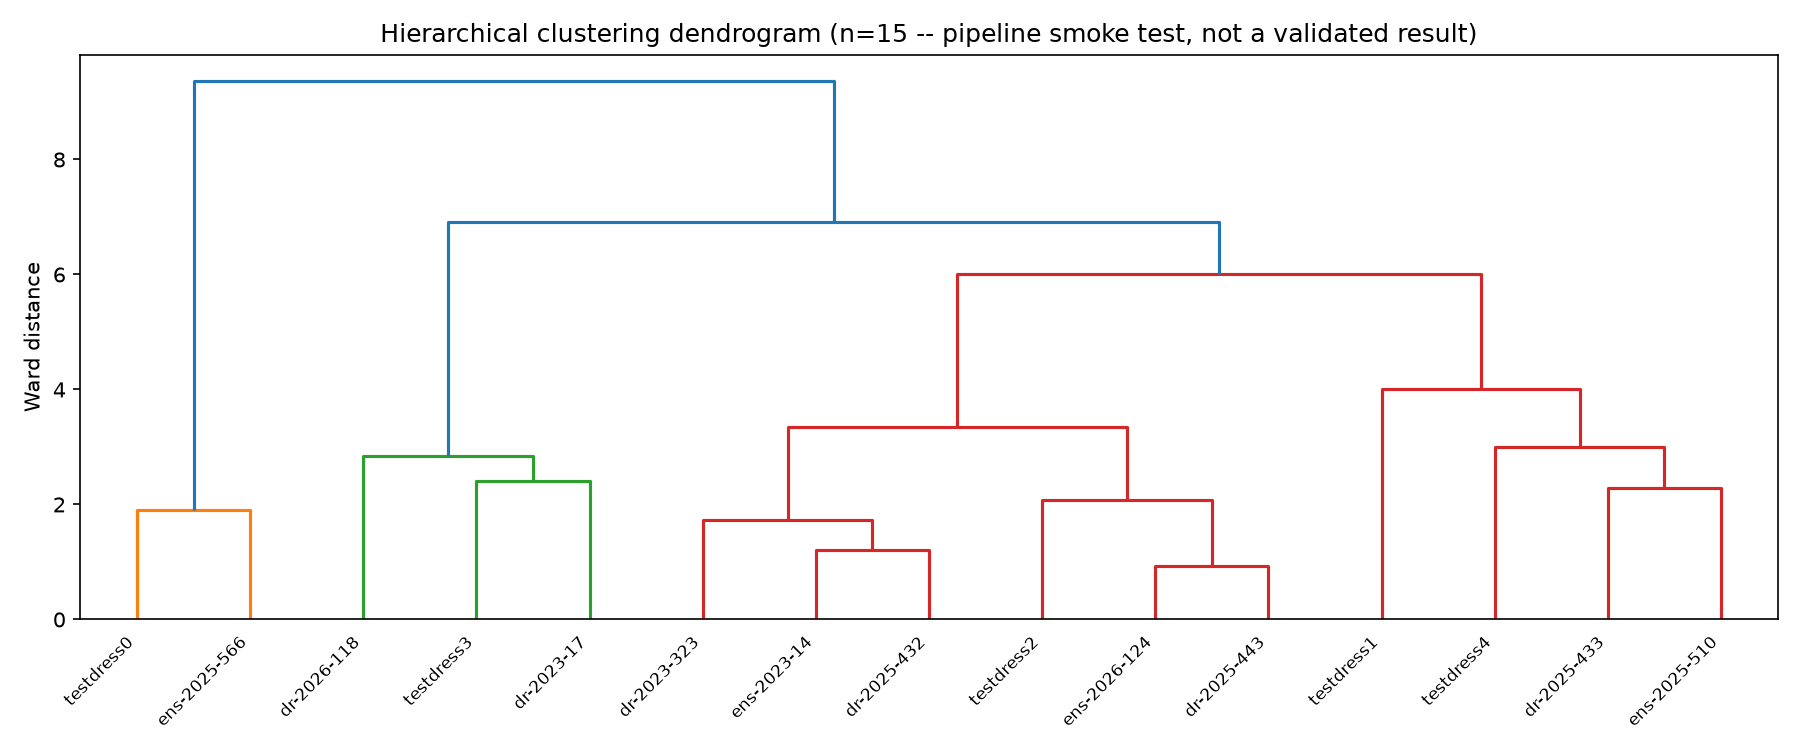
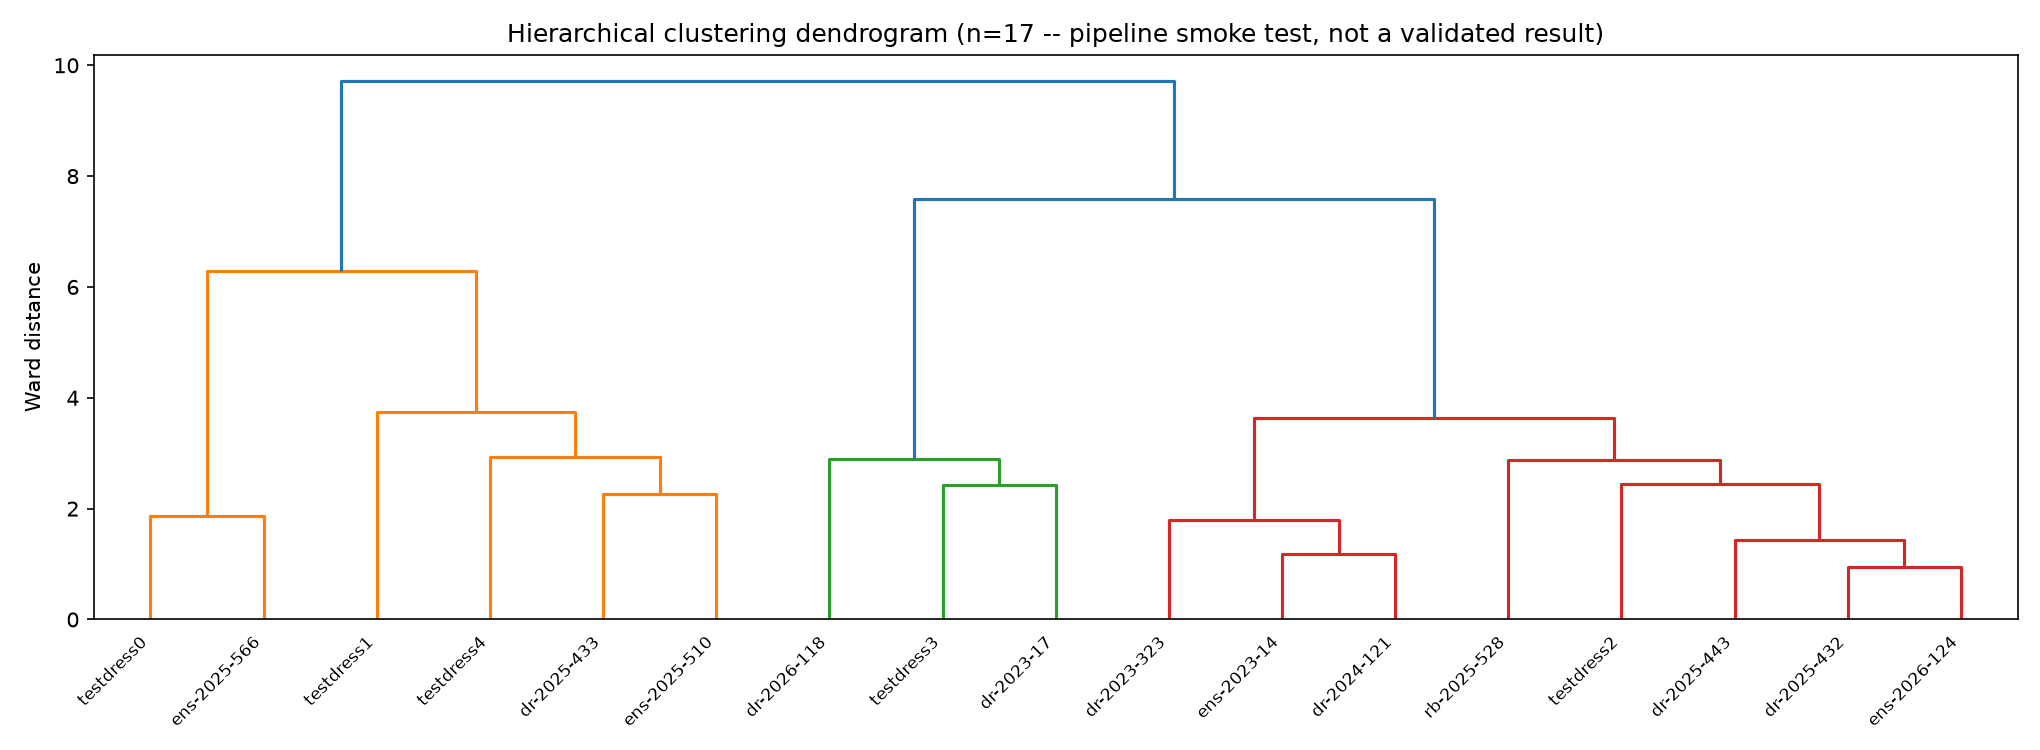
two garments

diff --git a/crop_below.py b/crop_below.py
@@ -1,0 +1,61 @@
+"""crop_below.py -- remove a floor slab / stand base that RealityScan reconstructed under a garment.
+
+Drops every face with a vertex below CUT on the up axis (Z, for the Z-up exports seen so far) and writes:
+  1. a display OBJ that keeps RealityScan's UVs and material (feed to dense_to_glb.py; the open
+     cut ends sit inside the hem and aren't visible), and
+  2. a statistics OBJ, geometry only, with each open loop capped by a centroid fan so the mesh
+     stays watertight and volume stays defined (feed to dense_features.py).
+
+Pick CUT from a height profile of the scan: the slab shows as a thin band whose width jumps far
+past the garment's. First used on RB.2025.528 (2026-11-16): cut 2.0, 4 loops capped (stand legs).
+Proper fix is upstream (mask images / tighten the Reconstruction Region in RealityScan).
+
+Usage:
+    python crop_below.py scan.obj display.obj stats.obj 2.0
+Copy the .mtl and diffuse texture next to display.obj.
+"""
+import sys, numpy as np, trimesh
+from trimesh.grouping import group_rows
+src, out_disp, out_stats, cut = sys.argv[1], sys.argv[2], sys.argv[3], float(sys.argv[4])
+V, VT, F = [], [], []
+hdr = []
+for l in open(src):
+    if l.startswith('v '): V.append(l.split()[1:4])
+    elif l.startswith('vt '): VT.append(l.split()[1:3])
+    elif l.startswith(('mtllib', 'usemtl')): hdr.append(l)
+    elif l.startswith('f '):
+        F.append([int(x) for c in l.split()[1:] for x in c.split('/')])
+V = np.array(V, float); VT = np.array(VT, float); F = np.array(F, np.int64) - 1  # cols: v,vt,v,vt,v,vt
+fv, ft = F[:, 0::2], F[:, 1::2]
+keep = V[fv][:, :, 2].min(axis=1) >= cut
+fv, ft = fv[keep], ft[keep]
+uv_, iv = np.unique(fv, return_inverse=True); ut_, it = np.unique(ft, return_inverse=True)
+fv2, ft2 = iv.reshape(-1, 3), it.reshape(-1, 3)
+with open(out_disp, 'w') as o:
+    o.write(''.join(hdr))
+    np.savetxt(o, V[uv_], fmt='v %.6f %.6f %.6f')
+    np.savetxt(o, VT[ut_], fmt='vt %.6f %.6f')
+    np.savetxt(o, np.column_stack([fv2[:, 0], ft2[:, 0], fv2[:, 1], ft2[:, 1], fv2[:, 2], ft2[:, 2]]) + 1, fmt='f %d/%d %d/%d %d/%d')
+print('display faces', len(fv2), 'of', len(F))
+# stats copy: merge by position, cap boundary loops
+m = trimesh.Trimesh(V[uv_], fv2, process=False); m.merge_vertices(); m.remove_unreferenced_vertices()
+e = m.edges  # directed, per face
+b = group_rows(m.edges_sorted, require_count=1)
+be = e[b]  # boundary edges keep the face's winding; the cap must run opposite
+nxt = {a: c for a, c in be}
+seen, loops = set(), []
+for s in nxt:
+    if s in seen: continue
+    loop, cur = [], s
+    while cur not in seen:
+        seen.add(cur); loop.append(cur); cur = nxt.get(cur)
+        if cur is None: break
+    loops.append(loop)
+verts, faces = list(m.vertices), list(m.faces)
+for loop in loops:
+    c = len(verts); verts.append(m.vertices[loop].mean(axis=0))
+    for i in range(len(loop)):
+        faces.append([loop[(i + 1) % len(loop)], loop[i], c])  # reversed winding
+cap = trimesh.Trimesh(np.array(verts), np.array(faces), process=False)
+print('loops', len(loops), 'sizes', sorted(len(l) for l in loops)[::-1][:10], 'watertight', cap.is_watertight, 'winding', cap.is_winding_consistent)
+cap.export(out_stats)

diff --git a/README.md b/README.md
@@ -355,6 +355,28 @@ Also takes `--capture-method` (same as `extract_features.py` above) — pass
 `--capture-method hybrid` for any garment whose OBJ includes a merged
 LiDAR scan (see `concepts/garment-capture/hybrid-lidar-capture.md`).
 
+### `crop_below.py`
+
+For a scan where RealityScan also reconstructed the floor or the stand's base
+under the garment (first seen on `RB.2025.528`, 2026-11-16: a wide slab of
+~1M faces under the hem). Left in, the slab inflates `bbox_x/z`,
+`surface_area`, `volume` and especially `drape_extent` (0.669 vs. 0.339 after
+cropping), and it shows on the site.
+
+```bash
+python crop_below.py raw_scan.obj display.obj stats.obj 2.0
+```
+
+Drops every face with a vertex below the cut height (Z-up) and writes two
+OBJs: `display.obj` keeps RealityScan's UVs and material for `dense_to_glb.py`
+(copy the `.mtl` and diffuse next to it); `stats.obj` is geometry only, with
+each open loop left by the cut capped by a centroid fan, so `dense_features.py`
+still sees a watertight mesh and `volume` stays defined. Choose the height
+from a width-by-height profile of the scan's vertices: the slab is the band
+whose width jumps far past the garment's. The proper fix is upstream (mask the
+images or tighten the Reconstruction Region before meshing); this is for
+exports that already have it.
+
 ### `pca_sanity_check.py`
 
 Run once `features.csv` has a few rows, as a pipeline smoke test (not a
